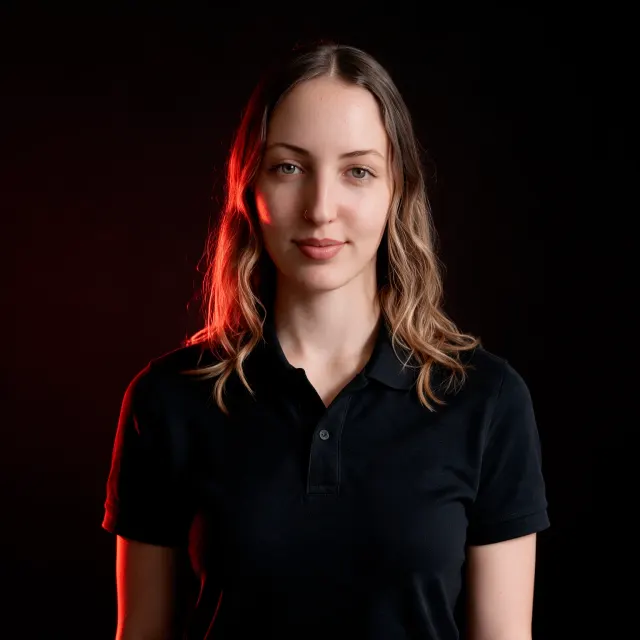
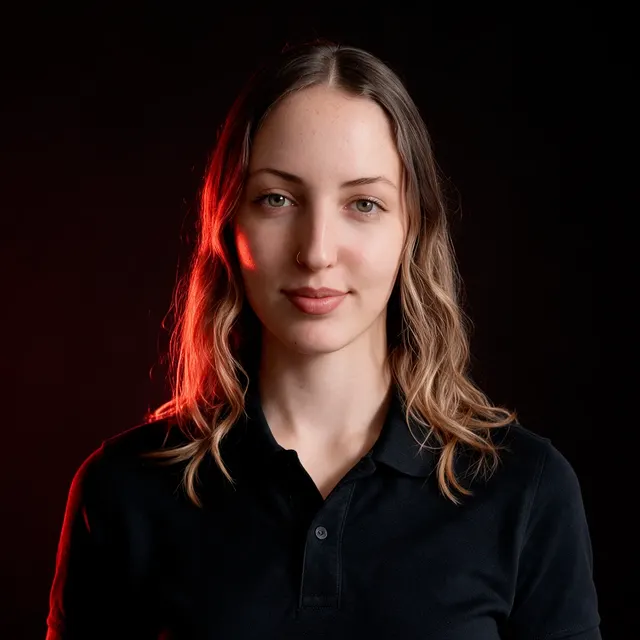
Equipo: foto de Macarena alineada a la altura y tamaño del resto

Changed region(s): [[0.0625, 0.0625, 0.9375, 1.0], [0.4688, 0.8125, 0.5312, 0.8438], [0.3438, 0.7188, 0.375, 0.75]]

diff --git a/agencia/index.html b/agencia/index.html
@@ -4330,7 +4330,7 @@ body.vx-jobs-open{overflow:hidden}
         </div>
       </div>
       <div class="vx-team2-card">
-        <img src="/agencia/images/team/macarena.webp" alt="Macarena">
+        <img src="/agencia/images/team/macarena.webp?v=3" alt="Macarena">
         <div class="vx-team2-caption">
           <p class="vx-team2-name">Macarena</p>
           <p class="vx-team2-role">Community manager</p>
